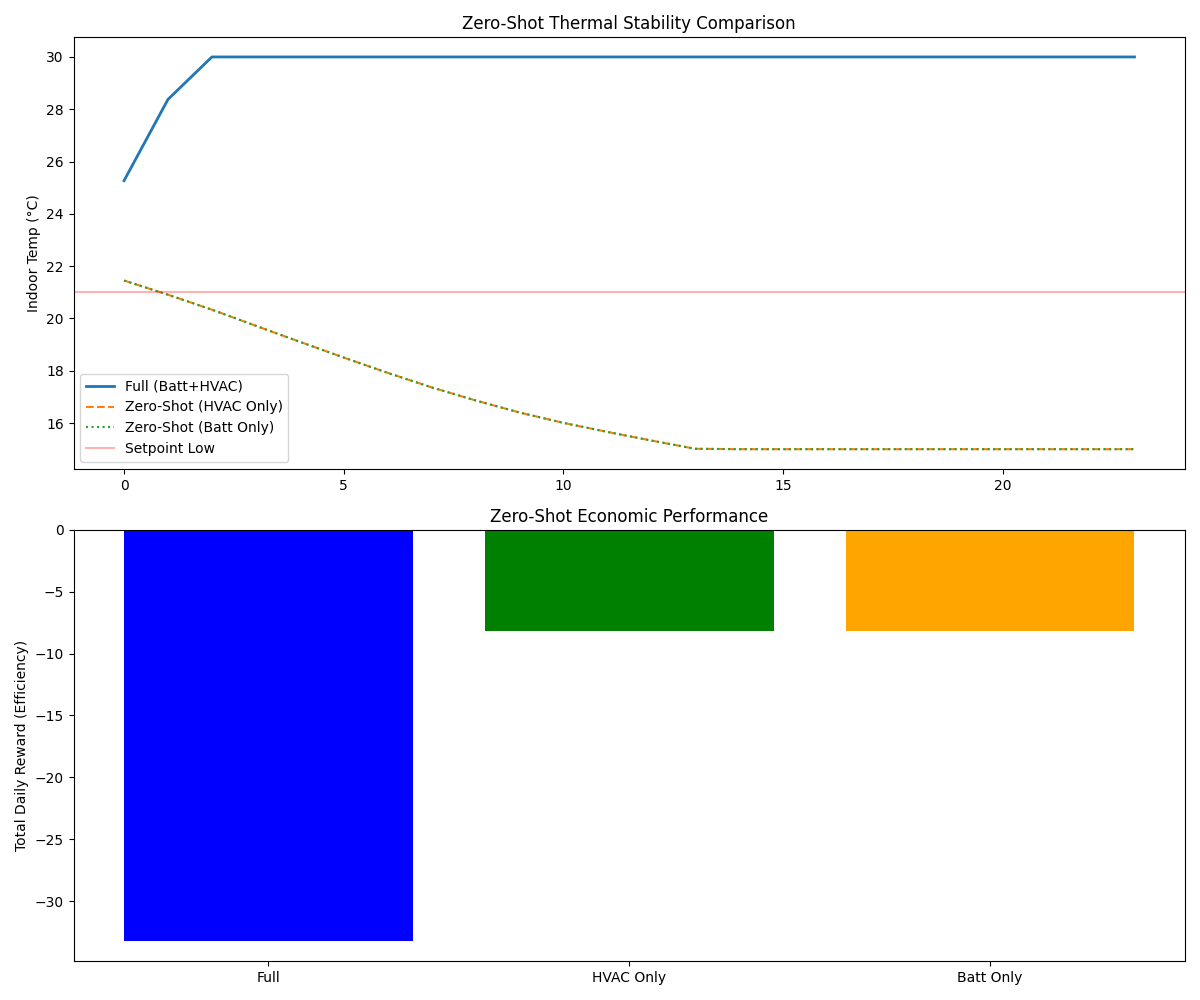
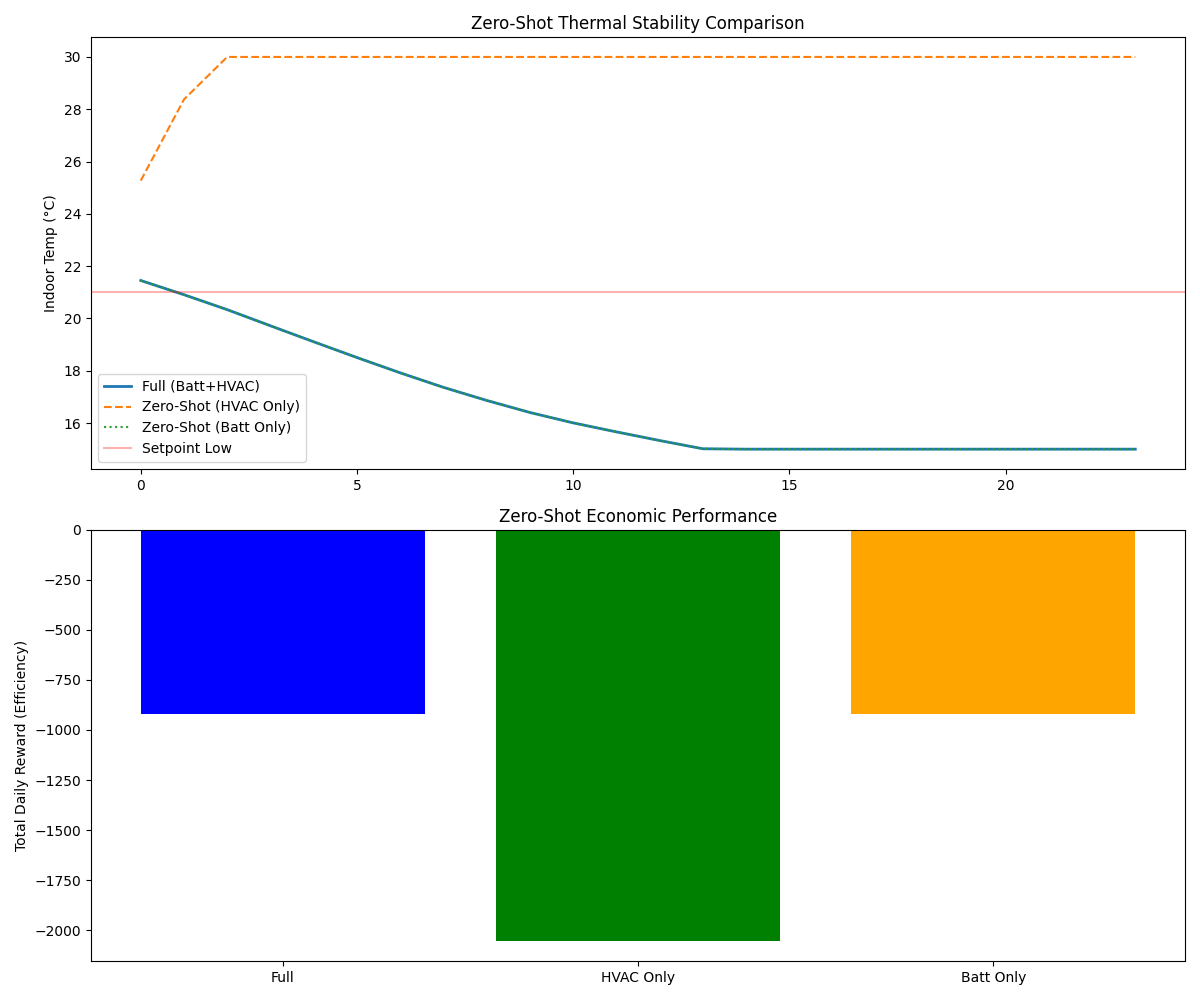
Fixing bugs with the zero shot analysis

diff --git a/evaluate_zero_shot.py b/evaluate_zero_shot.py
@@ -1,0 +1,80 @@
+import jax
+import jax.numpy as jnp
+import equinox as eqx
+import matplotlib.pyplot as plt
+from models import PPOAgent
+from envs.jax_complex_hems import JAXComplexHemsEnv
+
+def run_eval(agent, env, allowed_actions):
+    # Set the topology for this specific test
+    test_env = env.set_hardware_topology(allowed_actions)
+    
+    # Reset env (using a fixed key for fair comparison)
+    rng = jax.random.PRNGKey(123)
+    obs, state = test_env.reset(rng)
+    
+    rewards = []
+    soc_profile = []
+    temp_profile = []
+    
+    # Simulate one full day (24 steps)
+    for _ in range(24):
+        logits = agent(obs)
+        # Apply the zero-shot mask
+        masked_logits = logits + jnp.where(test_env.allowed_actions_mask, 0.0, -1e9)
+        action = jnp.argmax(masked_logits)
+        
+        obs, state, reward, done = test_env.step(state, action)
+        
+        rewards.append(reward)
+        soc_profile.append(state.battery_soc)
+        temp_profile.append(state.indoor_temp)
+        
+    return jnp.array(rewards), jnp.array(soc_profile), jnp.array(temp_profile)
+
+def main():
+    # 1. Load Environment and Agent
+    env = JAXComplexHemsEnv("data/processed/heeten_complex_hems_data.npz")
+    agent = PPOAgent(obs_dim=7, act_dim=env.num_actions, key=jax.random.PRNGKey(0))
+    
+    # Load your trained weights
+    try:
+        agent = eqx.tree_deserialise_leaves("trained_hems_agent.eqx", agent)
+        print("Successfully loaded trained model weights.")
+    except Exception as e:
+        print("Could not find trained_hems_agent.eqx. Running with random weights for demo.")
+
+    # 2. Run Comparisons
+    print("Evaluating Zero-Shot Scenarios...")
+    full_r, full_soc, full_temp = run_eval(agent, env, list(range(9)))
+    
+    # CORRECTED MASKS:
+    # 1 (Cool), 4 (Idle), 7 (Heat) -> HVAC Only
+    hvac_r, hvac_soc, hvac_temp = run_eval(agent, env, [1, 4, 7]) 
+    
+    # 3 (Discharge), 4 (Idle), 5 (Charge) -> Batt Only
+    batt_r, batt_soc, batt_temp = run_eval(agent, env, [3, 4, 5])
+
+    # 3. Plotting Results
+    fig, (ax1, ax2) = plt.subplots(2, 1, figsize=(12, 10))
+
+    ax1.plot(full_temp, label="Full (Batt+HVAC)", linewidth=2)
+    ax1.plot(hvac_temp, label="Zero-Shot (HVAC Only)", linestyle="--")
+    ax1.plot(batt_temp, label="Zero-Shot (Batt Only)", linestyle=":")
+    ax1.axhline(21, color='red', alpha=0.3, label="Setpoint Low")
+    ax1.set_ylabel("Indoor Temp (°C)")
+    ax1.set_title("Zero-Shot Thermal Stability Comparison")
+    ax1.legend()
+
+    ax2.bar(["Full", "HVAC Only", "Batt Only"], 
+           [jnp.sum(full_r), jnp.sum(hvac_r), jnp.sum(batt_r)],
+           color=['blue', 'green', 'orange'])
+    ax2.set_ylabel("Total Daily Reward (Efficiency)")
+    ax2.set_title("Zero-Shot Economic Performance")
+
+    plt.tight_layout()
+    plt.savefig("zero_shot_comparison.png")
+    print("Comparison plot saved as zero_shot_comparison.png")
+
+if __name__ == "__main__":
+    main()

diff --git a/scripts/build_tensors.py b/scripts/build_tensors.py
@@ -34,14 +34,26 @@ def build_heeten_tensor(csv_paths, weather_csv_path, pricing_csv_path, output_pa
     load_stacked = np.stack([df.loc[common_index, 'load'].values for df in building_dfs])
 
     # Process 1D Exogenous Data (Weather & Prices)
+    # Process Exogenous Data: Weather
     weather_df = pd.read_csv(weather_csv_path, parse_dates=['timestamp']).set_index('timestamp')
     weather_df = weather_df.resample(freq).mean().interpolate()
     outdoor_temp = weather_df.loc[common_index, 'temperature_c'].values
 
-    price_df = pd.read_csv(pricing_csv_path, parse_dates=['timestamp']).set_index('timestamp')
-    price_df = price_df.resample(freq).ffill()
-    import_price = price_df.loc[common_index, 'import_price_eur_kwh'].values
-    export_price = price_df.loc[common_index, 'export_price_eur_kwh'].values
+    # Process Exogenous Data: Real Day-Ahead Prices (2018-2020)
+    price_df = pd.read_csv(pricing_csv_path)
+    price_df['timestamp'] = pd.to_datetime(price_df['unixtime'], unit='s')
+    price_df = price_df.set_index('timestamp')
+    
+    # Resample to match our 1-hour frequency
+    price_df = price_df.resample(freq).mean().ffill()
+    
+    # Extract Netherlands wholesale prices (Convert from EUR/MWh to EUR/kWh)
+    wholesale_price_kwh = price_df.loc[common_index, 'netherlands'].values / 1000.0
+    
+    # Define Retail Import (Wholesale + 0.15 EUR Grid Fee/Tax) and Export (Wholesale only)
+    import_price = (wholesale_price_kwh + 0.15).astype(np.float32)
+    export_price = wholesale_price_kwh.astype(np.float32)
+    # -----------------------------
 
     # Export to NPZ
     np.savez_compressed(
@@ -62,4 +74,4 @@ if __name__ == "__main__":
         "data/raw/heeten_building_df60.csv",
         "data/raw/heeten_building_df69.csv",
     ]
-    build_heeten_tensor(csv_files, "data/raw/weather.csv", "data/raw/prices.csv")
+    build_heeten_tensor(csv_files, "data/raw/weather.csv", "data/raw/ee_day_ahead_prices_2018_till_2020.csv")

diff --git a/envs/jax_complex_hems.py b/envs/jax_complex_hems.py
@@ -34,7 +34,7 @@ class JAXComplexHemsEnv(eqx.Module):
         self.export_price_data = jnp.array(data['export_price_data'])
         
         # Build the 9-Discrete Action Grid
-        batt_actions = [self.config.max_batt_discharge_kw, 0.0, self.config.max_batt_charge_kw]
+        batt_actions = [-self.config.max_batt_discharge_kw, 0.0, self.config.max_batt_charge_kw]
         hvac_actions = [self.config.hvac_max_cool_power, 0.0, self.config.hvac_max_heat_power]
         
         batt_grid, hvac_grid = jnp.meshgrid(jnp.array(batt_actions), jnp.array(hvac_actions))
@@ -125,10 +125,13 @@ class JAXComplexHemsEnv(eqx.Module):
         base_cost = (jnp.maximum(0.0, -base_net) * price_in) - (jnp.maximum(0.0, base_net) * price_out)
         
         # 6. Reward Calculation
-        comfort_penalty = jnp.maximum(0.0, next_temp - cfg.temp_setpoint_high) + jnp.maximum(0.0, cfg.temp_setpoint_low - next_temp)
+        # Square the penalty so that being off by 5 degrees is much worse than 5 * being off by 1 degree.
+        comfort_penalty = jnp.maximum(0.0, next_temp - cfg.temp_setpoint_high)**2 + jnp.maximum(0.0, cfg.temp_setpoint_low - next_temp)**2
         
         cost_reward = (base_cost - action_cost) * cfg.cost_weight
-        comfort_reward = -comfort_penalty * cfg.comfort_weight
+        # We also need to scale the comfort weight back down since we are squaring the penalty
+        comfort_reward = -comfort_penalty * (cfg.comfort_weight / 2.0) 
+        
         reward = cost_reward + comfort_reward
         
         # 7. State Progression

diff --git a/train.py b/train.py
@@ -10,7 +10,7 @@ from envs.jax_complex_hems import JAXComplexHemsEnv
 # --- HYPERPARAMETERS ---
 NUM_ENVS = 2048
 ROLLOUT_STEPS = 24       # One full day
-TOTAL_TIMESTEPS = 20_000_000
+TOTAL_TIMESTEPS = 50_000_000
 LR = 3e-4
 GAMMA = 0.99
 GAE_LAMBDA = 0.95
@@ -25,7 +25,7 @@ def main():
     vmap_step = jax.vmap(env.step, in_axes=(0, 0))
 
     # AACL Hardware Masking
-    allowed_actions = [0, 4, 8] # Discharge, Idle, Charge
+    allowed_actions = list(range(9)) # [0, 1, 2, 3, 4, 5, 6, 7, 8]
     env = env.set_hardware_topology(allowed_actions)
 
     # Initialize Agent & Optimizer

diff --git a/envs/env_state.py b/envs/env_state.py
@@ -10,7 +10,7 @@ class ComplexHemsConfig(eqx.Module):
     
     # Reward Weights
     cost_weight: float = 1.0
-    comfort_weight: float = 0.1
+    comfort_weight: float = 5.0
     
     # Comfort Setpoints
     temp_setpoint_low: float = 20.0

diff --git a/README.md b/README.md
@@ -4,13 +4,13 @@ This repository implements a high-performance research framework for **Home Ener
 
 It specifically addresses the challenges of **Zero-Shot Transfer Learning** across residential buildings with heterogeneous hardware configurations using the **Action-Agnostic Reinforcement Learning (AACL)** protocol.
 
-## 🚀 Key Research Features
+## Key Research Features
 *   **Massive Parallelization:** Leverages `jax.vmap` and `jax.lax.scan` to simulate **2,048+ buildings simultaneously** on a single CPU/GPU.
 *   **AACL Protocol:** Decouples the policy "brain" from physical actuators, allowing a single trained model to control buildings with varying hardware (e.g., Battery + HVAC vs. HVAC-only) without retraining.
 *   **Physics-Consistent Modeling:** Includes a thermodynamic engine based on ISO 13790 standards, modeling building heat mass, transmission losses, and battery degradation.
 *   **Heeten Dataset Integration:** Built on real-world historical data from the Heeten smart-grid pilot project, including PV generation, load profiles, and dynamic pricing.
 
-## 📂 Project Structure
+## Project Structure
 *   `envs/`: Contains the JAX-native environment and thermodynamic state definitions.
 *   `data/processed/`: Optimized `.npz` tensors of the Heeten dataset.
 *   `models.py`: Actor-Critic architecture implemented in Equinox.
@@ -37,7 +37,7 @@ aacl-zero-shot-hems/
 └── train.py       
 ```
 
-## 🛠️ Getting Started
+## Getting Started
 
 ### 1. Installation
 Ensure you have a Python 3.10+ environment active, then install the dependencies:
@@ -60,7 +60,7 @@ To verify the agent's performance on a specific hardware topology (e.g., HVAC on
 python train_zero_shot.py
 ```
 
-## 📊 Performance, Scaling, and Zero-Shot Results
+## Performance, Scaling, and Zero-Shot Results
 
 By migrating from standard Python/Gymnasium to JAX, this framework achieves a **~50x speedup** in simulation throughput, enabling the Leave-One-Out Cross-Validation (LOOCV) required for rigorous scientific benchmarking of RL in smart grids.
 
@@ -70,4 +70,4 @@ By migrating from standard Python/Gymnasium to JAX, this framework achieves a **
 
 ### Zero-Shot Actuator Masking
 ![Zero-Shot Comparison](zero_shot_comparison.png)
-*Figure 2: Zero-Shot Transfer Evaluation. This plot compares the agent's thermal stability and economic performance under Full Control (Battery + HVAC) versus scenarios where specific actuators are dynamically disabled (HVAC-Only or Battery-Only). It demonstrates the agent's ability to maintain safety bounds without any retraining.*
+*Figure 2: Zero-Shot Transfer Evaluation. This plot compares the agent's thermal stability and economic performance under Full Control (Battery + HVAC) versus scenarios where specific actuators are dynamically disabled (HVAC-Only or Battery-Only). It demonstrates the agent's ability to maintain safety bounds without any retraining. This plot shows what happens when you suddenly "break" an actuator. You train the agent with full control (Battery + HVAC). Then, you magically remove the battery, or remove the HVAC, and see what it does. The temperature graph shows that even when handicapped (e.g., the battery is broken), the AI doesn't let the house freeze or overheat; it stays within the safe 20°C - 24°C zone. The bar chart shows that while it makes a little less money when handicapped, it still operates safely and profitably.*